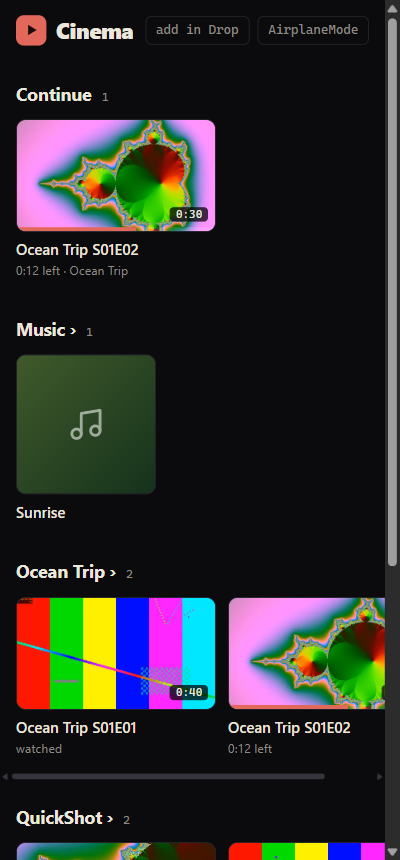
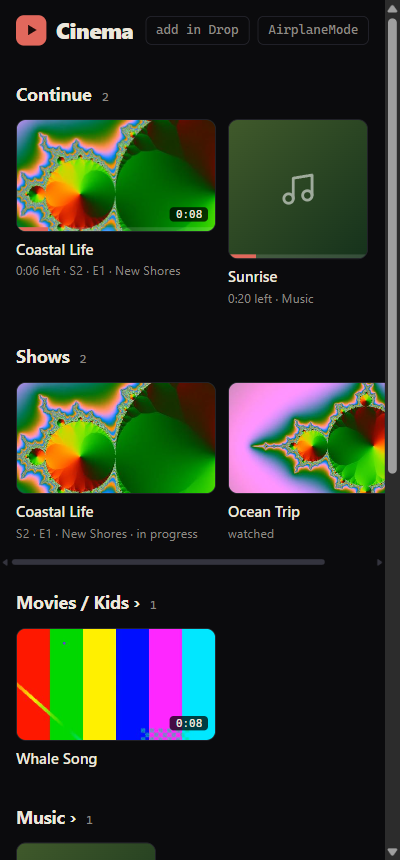
TV series: shows, seasons, and watching straight through
A folder of episodes (S01E02, 1x02, Episode 2, E02) or of season folders ("Season 1",
"S2", "Specials") is a show: one card on the home page, a show page with season tabs
and episodes labelled from file names, one Play/Continue button that knows where this
device is, Up next across seasons, and one Continue card per show. Ordinary folders
(Movies/Kids) stay shelves. Node test runs the page's own series code in CI.

diff --git a/static/index.html b/static/index.html
@@ -117,6 +117,24 @@
   .tracks .n { font: .78rem var(--mono); color: var(--dim); width: 22px; text-align: right; flex: none; }
   .tracks .nm { flex: 1; min-width: 0; white-space: nowrap; overflow: hidden; text-overflow: ellipsis; }
   .tracks .d { font: .75rem var(--mono); color: var(--dim); }
+  /* shows */
+  .showhead { display: grid; grid-template-columns: minmax(0, 340px) 1fr; gap: 22px; align-items: end; padding: 18px 20px 4px; }
+  .showhead .poster { aspect-ratio: 16 / 9; }
+  .showhead h1 { margin: 0 0 4px; font-size: 1.7rem; letter-spacing: -.01em; line-height: 1.15; }
+  .showhead .sub { color: var(--dim); font-size: .9rem; margin-bottom: 14px; }
+  @media (max-width: 600px) { .showhead { grid-template-columns: 1fr; padding: 14px 16px 4px; gap: 14px; } .showhead h1 { font-size: 1.4rem; } }
+  .tabs { display: flex; gap: 6px; padding: 18px 20px 6px; overflow-x: auto; scrollbar-width: none; }
+  .tabs a { flex: none; padding: 7px 14px; border-radius: 99px; border: 1px solid var(--line); text-decoration: none; font-size: .88rem; color: var(--dim); }
+  .tabs a.on { background: var(--ink); color: var(--bg); border-color: var(--ink); font-weight: 600; }
+  .eps { padding: 6px 20px 30px; display: grid; gap: 4px; }
+  .ep { display: grid; grid-template-columns: 168px 1fr; gap: 14px; align-items: center; padding: 8px; border-radius: 10px; text-decoration: none; }
+  .ep:hover, .ep:focus-visible { background: var(--panel); outline: none; }
+  .ep.now { background: var(--panel); box-shadow: inset 3px 0 0 var(--accent); }
+  .ep .poster { aspect-ratio: 16 / 9; border-radius: 8px; }
+  .ep b { display: block; font-size: .95rem; line-height: 1.3; }
+  .ep small { color: var(--dim); font-size: .8rem; }
+  .ep.cant { opacity: .5; }
+  @media (max-width: 600px) { .ep { grid-template-columns: 128px 1fr; gap: 12px; } .tabs, .eps { padding-left: 16px; padding-right: 16px; } }
   .note { text-align: center; color: var(--dim); font-size: .85rem; padding: 0 20px; }
   @media (max-width: 600px) { .card { width: 200px; } .card.sq { width: 140px; } .grid { grid-template-columns: repeat(auto-fill, minmax(150px, 1fr)); } .top { padding: 14px 16px 4px; } .shelf h2 { margin: 0 16px 8px; } .row, .grid, .chips { padding-left: 16px; padding-right: 16px; } .row { scroll-padding-inline: 16px; } .cta { padding: 0 16px 8px; } .crumbs { padding: 8px 16px 0; } }
 </style>
@@ -177,6 +195,86 @@ function folderPath(fid) { const out = []; let f = folderById.get(fid); while (f
 const folderLabel = fid => folderPath(fid).map(f => f.name).join(" / ");
 function countBelow(fid) { let n = inFolder(fid).length; for (const s of subfolders(fid)) n += countBelow(s.id); return n; }
 
+// ---- TV series: a folder of episodes, or of season folders, is a show ----
+// Episode numbers come from file names (S01E02, 1x02, Episode 2); seasons from folder names
+// ("Season 1", "S2", "Series 3", "Specials" = 0) or, failing that, from the file name.
+const EP_RES = [
+  [/\bS(\d{1,2})[ ._-]*E(\d{1,3})\b/i, m => [+m[1], +m[2]]],
+  [/\b(\d{1,2})x(\d{2,3})\b/i, m => [+m[1], +m[2]]],
+  [/\b(?:episode|ep)[ ._-]*(\d{1,3})\b/i, m => [null, +m[1]]],
+  [/\bE(\d{1,3})\b/, m => [null, +m[1]]],
+];
+function parseEp(name) {
+  const base = name.replace(/\.[a-z0-9]{2,5}$/i, "").replace(/[._]+/g, " ");
+  for (const [re, f] of EP_RES) {
+    const m = re.exec(base);
+    if (m) {
+      const [season, ep] = f(m);
+      const title = base.slice(m.index + m[0].length).replace(/^[\s\-–—:]+/, "").replace(/\s{2,}/g, " ").trim();
+      return { season, ep, title: title || null };
+    }
+  }
+  return null;
+}
+function seasonOf(name) {
+  const n = name.trim();
+  if (/^(specials?|extras?)$/i.test(n)) return 0;
+  const m = /^(?:season|series|staffel|saison|temporada|s)?[ ._-]*(\d{1,2})$/i.exec(n) || /\b(?:season|series)[ ._-]*(\d{1,2})\b/i.exec(n);
+  return m ? +m[1] : null;
+}
+let shows = new Map();      // show folder id -> {id, name, episodes (in watch order), seasons}
+function isShow(f) {
+  const epFiles = inFolder(f.id).filter(m => parseEp(m.name)).length;
+  const seasonKids = subfolders(f.id).filter(k => countBelow(k.id) && (seasonOf(k.name) !== null || inFolder(k.id).some(m => parseEp(m.name))));
+  return seasonKids.length > 0 || epFiles >= 2;
+}
+function buildShows() {
+  shows = new Map();
+  lib.media.forEach(m => { delete m.show; });
+  const walk = fid => {
+    for (const f of subfolders(fid)) {
+      if (isShow(f)) addShow(f); else walk(f.id);       // a show's own subfolders are its seasons
+    }
+  };
+  walk(null);
+}
+function addShow(f) {
+  const eps = [];
+  const collect = (fid, season, idx) => {
+    for (const m of inFolder(fid)) {
+      const e = parseEp(m.name) || {};
+      Object.assign(m, { show: f.id, season: season ?? e.season ?? idx ?? 1, ep: e.ep ?? null, epTitle: e.title ?? null });
+      eps.push(m);
+    }
+    subfolders(fid).forEach((k, i) => collect(k.id, season ?? seasonOf(k.name) ?? (fid === f.id ? null : season), season ?? seasonOf(k.name) ?? i + 1));
+  };
+  collect(f.id, null, null);
+  // seasons in order, specials (0) last; episodes by number, then by name
+  const sk = x => x === 0 ? 999 : x;
+  eps.sort((a, b) => sk(a.season) - sk(b.season) || (a.ep ?? 1e6) - (b.ep ?? 1e6) || nat(a, b));
+  const seasons = [...new Set(eps.map(m => m.season))];
+  shows.set(f.id, { id: f.id, name: f.name, episodes: eps, seasons });
+}
+const seasonName = n => n === 0 ? "Specials" : `Season ${n}`;
+function epShort(m) {   // "E2 · Pilot"
+  if (m.ep == null) return m.epTitle || tidy(m.name);
+  return `E${m.ep}${m.epTitle ? " · " + m.epTitle : ""}`;
+}
+function epLong(m) {    // "S1 · E2 · Pilot"
+  const sh = shows.get(m.show);
+  return (sh && sh.seasons.length > 1 || m.season > 1 ? (m.season === 0 ? "Special · " : `S${m.season} · `) : "") + epShort(m);
+}
+const titleOf = m => m.show ? epLong(m) : tidy(m.name);
+// where this device is in a show: the episode to continue, the next one, or the first
+function showState(sh) {
+  const seen = sh.episodes.map(m => [m, pos(m.id)]).filter(([, p]) => p);
+  if (!seen.length) return { m: sh.episodes.find(playable) || sh.episodes[0], mode: "start", at: 0 };
+  const [last, p] = seen.sort((a, b) => b[1].at - a[1].at)[0];
+  if (!finished(p)) return { m: last, mode: "continue", at: p.at };
+  const next = sh.episodes.slice(sh.episodes.indexOf(last) + 1).find(e => !finished(pos(e.id)));
+  return next ? { m: next, mode: "next", at: p.at } : { m: last, mode: "done", at: p.at };
+}
+
 // ---- library ----
 async function load() {
   try {
@@ -189,27 +287,46 @@ async function load() {
   }
   byId = new Map(lib.media.map(m => [m.id, m]));
   folderById = new Map(lib.folders.map(f => [f.id, f]));
+  buildShows();
   $("#dropLink").href = lib.drop_path;
   route();
   posterQueue();
 }
 
+function posterBox(m, art, extra = "") {
+  const sq = m.kind === "audio";
+  return `<div class="poster" style="background:${gradient(art)}">
+      <div class="ph">${sq ? NOTE : m.poster ? "" : FILM}</div>
+      ${m.poster ? `<img src="api/posters/${m.id}" alt="" loading="lazy" onload="this.classList.add('on')">` : ""}${extra}
+    </div>`;
+}
+const artFor = m => m.show ? shows.get(m.show).name : m.parent ? folderLabel(m.parent) : m.name;
 function card(m, opts = {}) {
   const p = pos(m.id), sq = m.kind === "audio", can = playable(m);
   const dur = (p && p.d) || mem.get("d." + m.id);
   // in a folder's shelf the folder name is already the heading; elsewhere (Continue) say where it's from
-  const where = opts.where ? folderLabel(m.parent) : "";
-  const meta = !can ? "won't play on this device" : [started(p) ? `${clock(p.d - p.t)} left` : finished(p) ? "watched" : "", where].filter(Boolean).join(" · ");
+  const where = opts.where ? (m.show ? epLong(m) : folderLabel(m.parent)) : "";
+  const meta = !can ? "won't play on this device" : [opts.status || (started(p) ? `${clock(p.d - p.t)} left` : finished(p) ? "watched" : ""), where].filter(Boolean).join(" · ");
   return `<a class="card${sq ? " sq" : ""}${can ? "" : " cant"}" href="#play=${m.id}" title="${esc(m.name)}">
-    <div class="poster" style="background:${gradient(m.parent ? folderLabel(m.parent) : m.name)}">
+    <div class="poster" style="background:${gradient(artFor(m))}">
       <div class="ph">${sq ? NOTE : m.poster ? "" : FILM}</div>
       ${m.poster ? `<img src="api/posters/${m.id}" alt="" loading="lazy" onload="this.classList.add('on')">` : ""}
       ${dur && !sq ? `<span class="dur">${clock(dur)}</span>` : ""}
       ${started(p) ? `<div class="prog"><i style="width:${(100 * p.t / p.d).toFixed(1)}%"></i></div>` : ""}
       <div class="hover"><span>${PLAY}</span></div>
     </div>
-    <div class="t">${esc(tidy(m.name))}</div>
+    <div class="t">${esc(opts.title || titleOf(m))}</div>
     ${meta ? `<div class="m">${esc(meta)}</div>` : ""}
+  </a>`;
+}
+function showCard(sh) {
+  const st = showState(sh), m = st.m;
+  const face = m.poster ? m : sh.episodes.find(e => e.poster) || m;
+  const meta = st.mode === "continue" ? `${epLong(m)} · in progress` : st.mode === "next" ? `Next: ${epLong(m)}` : st.mode === "done" ? "watched"
+    : `${sh.seasons.length > 1 ? sh.seasons.filter(x => x).length + " seasons · " : ""}${sh.episodes.length} episode${sh.episodes.length === 1 ? "" : "s"}`;
+  return `<a class="card" href="#show=${sh.id}" title="${esc(sh.name)}">
+    ${posterBox(face, sh.name, `<div class="hover"><span>${PLAY}</span></div>`)}
+    <div class="t">${esc(sh.name)}</div><div class="m">${esc(meta)}</div>
   </a>`;
 }
 
@@ -222,16 +339,25 @@ function renderHome() {
       <p><a class="btn primary" href="${esc(lib.drop_path)}">Open Drop</a></p></div>`;
     return;
   }
-  const cont = lib.media.filter(m => started(pos(m.id))).sort((a, b) => pos(b.id).at - pos(a.id).at).slice(0, 12);
+  // Continue: films/songs in progress, and one card per show (its episode in progress, or the next)
+  const cont = [
+    ...lib.media.filter(m => !m.show && started(pos(m.id))).map(m => ({ at: pos(m.id).at, html: card(m, { where: true }) })),
+    ...[...shows.values()].map(sh => [sh, showState(sh)]).filter(([, st]) => st.mode === "continue" || st.mode === "next")
+      .map(([sh, st]) => ({ at: st.at, html: card(st.m, { title: sh.name, where: true, status: st.mode === "next" ? "Next up" : "" }) })),
+  ].sort((a, b) => b.at - a.at).slice(0, 12);
   let html = "";
-  if (cont.length) html += shelf("Continue", cont, null, "row", { where: true });
-  // one shelf per folder that holds media directly, in folder order; loose files last
+  if (cont.length) html += `<section class="shelf"><h2>Continue<small>${cont.length}</small></h2><div class="row">${cont.map(c => c.html).join("")}</div></section>`;
+  if (shows.size) {
+    const list = [...shows.values()].sort(nat);
+    html += `<section class="shelf"><h2>Shows<small>${list.length}</small></h2><div class="row">${list.map(showCard).join("")}</div></section>`;
+  }
+  // one shelf per (non-show) folder that holds media directly, in folder order; loose files last
   const order = [];
-  const walk = fid => { for (const f of subfolders(fid)) { if (inFolder(f.id).length) order.push(f.id); walk(f.id); } };
+  const walk = fid => { for (const f of subfolders(fid)) { if (shows.has(f.id)) continue; if (inFolder(f.id).length) order.push(f.id); walk(f.id); } };
   walk(null);
   for (const fid of order) html += shelf(folderLabel(fid), inFolder(fid), fid, "row");
   const loose = inFolder(null);
-  if (loose.length) html += shelf(order.length ? "Everything else" : "On Drop", loose, null, "row");
+  if (loose.length) html += shelf(order.length || shows.size ? "Everything else" : "On Drop", loose, null, "row");
   $("#lib").innerHTML = html;
 }
 function shelf(title, list, fid, layout, opts = {}) {
@@ -241,12 +367,13 @@ function shelf(title, list, fid, layout, opts = {}) {
 }
 function renderFolder(fid) {
   const f = folderById.get(fid); if (!f) return go("");
+  if (shows.has(fid)) return go("show=" + fid);
   const parts = folderPath(fid);
   $("#crumbs").hidden = false;
   $("#crumbs").innerHTML = `<a href="#">Library</a>` + parts.map((p, i) => ` / ` + (i === parts.length - 1 ? `<b>${esc(p.name)}</b>` : `<a href="#folder=${p.id}">${esc(p.name)}</a>`)).join("");
   const subs = subfolders(fid).filter(s => countBelow(s.id));
   const list = inFolder(fid);
-  let html = subs.length ? `<div class="chips" style="margin-top:16px">${subs.map(s => `<a class="chip" href="#folder=${s.id}">${esc(s.name)} <small>${countBelow(s.id)}</small></a>`).join("")}</div>` : "";
+  let html = subs.length ? `<div class="chips" style="margin-top:16px">${subs.map(s => `<a class="chip" href="#${shows.has(s.id) ? "show" : "folder"}=${s.id}">${esc(s.name)} <small>${countBelow(s.id)}</small></a>`).join("")}</div>` : "";
   if (list.length) {
     const first = list.find(m => !finished(pos(m.id)) && playable(m)) || list[0];
     html += `<section class="shelf"><h2>${esc(f.name)}<small>${list.length}</small></h2>
@@ -257,14 +384,41 @@ function renderFolder(fid) {
   $("#lib").innerHTML = html;
 }
 
-// ---- routing: #play=<id> (Drop links here), #folder=<id>, or the library ----
+function renderShow(id, wantSeason) {
+  const sh = shows.get(id); if (!sh) return go("");
+  const st = showState(sh);
+  const season = sh.seasons.includes(wantSeason) ? wantSeason : st.m.season;
+  const parts = folderPath(id);
+  $("#crumbs").hidden = false;
+  $("#crumbs").innerHTML = `<a href="#">Library</a>` + parts.slice(0, -1).map(p => ` / <a href="#folder=${p.id}">${esc(p.name)}</a>`).join("") + ` / <b>${esc(sh.name)}</b>`;
+  const face = st.m.poster ? st.m : sh.episodes.find(e => e.poster) || st.m;
+  const label = st.mode === "continue" ? `Continue ${epLong(st.m)}` : st.mode === "next" ? `Play ${epLong(st.m)}` : st.mode === "done" ? "Watch again" : `Play ${epLong(st.m)}`;
+  const target = st.mode === "done" ? sh.episodes[0] : st.m;
+  const n = sh.episodes.length, ns = sh.seasons.filter(x => x).length;
+  let html = `<div class="showhead">${posterBox(face, sh.name)}
+    <div><h1>${esc(sh.name)}</h1><div class="sub">${ns > 1 ? ns + " seasons · " : ""}${n} episode${n === 1 ? "" : "s"}</div>
+    <a class="btn primary" href="#play=${target.id}">${PLAY} ${esc(label)}</a></div></div>`;
+  if (sh.seasons.length > 1) html += `<nav class="tabs">${sh.seasons.map(x => `<a href="#show=${id}&s=${x}" class="${x === season ? "on" : ""}">${seasonName(x)}</a>`).join("")}</nav>`;
+  const list = sh.episodes.filter(m => m.season === season);
+  html += `<div class="eps">${list.map(m => {
+    const p = pos(m.id), dur = (p && p.d) || mem.get("d." + m.id), can = playable(m);
+    const status = !can ? "won't play on this device" : started(p) ? `${clock(p.d - p.t)} left` : finished(p) ? "watched" : dur ? clock(dur) : "";
+    const bar = started(p) ? `<div class="prog"><i style="width:${(100 * p.t / p.d).toFixed(1)}%"></i></div>` : "";
+    return `<a class="ep${m === st.m && st.mode !== "done" ? " now" : ""}${can ? "" : " cant"}" href="#play=${m.id}" title="${esc(m.name)}">
+      ${posterBox(m, sh.name, bar)}<div><b>${esc(epShort(m))}</b><small>${esc(status)}</small></div></a>`;
+  }).join("")}</div>`;
+  $("#lib").innerHTML = html;
+}
+
+// ---- routing: #play=<id> (Drop links here), #folder=<id>, #show=<id>[&s=<season>], or the library ----
 function go(hash) { if (location.hash.slice(1) !== hash) location.hash = hash; else route(); }
 function route() {
   if (!lib) return;
-  const h = location.hash.slice(1), m = /^(play|folder)=([0-9a-f]{16})$/.exec(h);
+  const h = location.hash.slice(1), m = /^(play|folder|show)=([0-9a-f]{16})(?:&s=(\d{1,3}))?$/.exec(h);
   if (m && m[1] === "play") return byId.has(m[2]) ? openPlayer(byId.get(m[2])) : (closePlayer(), renderHome());
   closePlayer();
-  m ? renderFolder(m[2]) : renderHome();
+  if (m && m[1] === "show") renderShow(m[2], m[3] != null ? +m[3] : null);
+  else m ? renderFolder(m[2]) : renderHome();
   window.scrollTo(0, scrollMem[h] || 0);
 }
 const scrollMem = {};
@@ -276,12 +430,14 @@ let media = null, current = null, saveTimer = null, nextTimer = null, idleTimer 
 function openPlayer(m) {
   closePlayer(true);
   current = m;
-  document.title = tidy(m.name) + " · Cinema";
+  const sh = m.show && shows.get(m.show);
+  document.title = (sh ? `${sh.name} · ${epLong(m)}` : tidy(m.name)) + " · Cinema";
   $("#libView").hidden = true;
   $("#player").hidden = false;
-  $("#pTitle").textContent = tidy(m.name);
-  $("#pSub").textContent = folderLabel(m.parent) || "Drop";
-  const list = inFolder(m.parent), idx = list.indexOf(m);
+  $("#pTitle").textContent = sh ? sh.name : tidy(m.name);
+  $("#pSub").textContent = sh ? epLong(m) : folderLabel(m.parent) || "Drop";
+  // a show plays straight on into the next season; otherwise the folder is the playlist
+  const list = sh ? sh.episodes : inFolder(m.parent), idx = list.indexOf(m);
   const stage = $("#stage");
   const noSave = m.download ? "" : ' controlslist="nodownload" oncontextmenu="return false"';
   if (m.kind === "video") {
@@ -290,9 +446,9 @@ function openPlayer(m) {
   } else {
     stage.className = "audio";
     stage.innerHTML = `<div class="art" style="background:${gradient(m.parent ? folderLabel(m.parent) : m.name)}">${NOTE}</div>
-      <h1>${esc(tidy(m.name))}</h1><div class="sub">${esc(folderLabel(m.parent) || "Drop")}${list.length > 1 ? ` · ${idx + 1} of ${list.length}` : ""}</div>
+      <h1>${esc(titleOf(m))}</h1><div class="sub">${esc(sh ? sh.name : folderLabel(m.parent) || "Drop")}${list.length > 1 ? ` · ${idx + 1} of ${list.length}` : ""}</div>
       <audio id="media" controls autoplay preload="auto"${noSave}></audio>
-      ${list.length > 1 ? `<div class="tracks">${list.map((t, i) => `<button type="button" data-track="${t.id}" class="${t === m ? "now" : ""}"><span class="n">${t === m ? "▶" : i + 1}</span><span class="nm">${esc(tidy(t.name))}</span><span class="d">${mem.get("d." + t.id) ? clock(mem.get("d." + t.id)) : ""}</span></button>`).join("")}</div>` : ""}`;
+      ${list.length > 1 ? `<div class="tracks">${list.map((t, i) => `<button type="button" data-track="${t.id}" class="${t === m ? "now" : ""}"><span class="n">${t === m ? "▶" : i + 1}</span><span class="nm">${esc(titleOf(t))}</span><span class="d">${mem.get("d." + t.id) ? clock(mem.get("d." + t.id)) : ""}</span></button>`).join("")}</div>` : ""}`;
     stage.querySelectorAll("[data-track]").forEach(b => b.onclick = () => go("play=" + b.dataset.track));
   }
   if (!playable(m)) stage.insertAdjacentHTML("beforeend", `<p class="note">This device's browser may not play ${esc(m.type)}. Try another device, or a file in MP4 (H.264) or MP3.</p>`);
@@ -313,7 +469,7 @@ function openPlayer(m) {
   saveTimer = setInterval(save, 5000);
   media.play?.().catch(() => {});   // autoplay can be refused (iOS with sound): the controls are there
   if ("mediaSession" in navigator) {
-    navigator.mediaSession.metadata = new MediaMetadata({ title: tidy(m.name), artist: folderLabel(m.parent) || "AirplaneMode", album: "Cinema",
+    navigator.mediaSession.metadata = new MediaMetadata({ title: titleOf(m), artist: sh ? sh.name : folderLabel(m.parent) || "AirplaneMode", album: "Cinema",
       artwork: m.poster ? [{ src: "api/posters/" + m.id, sizes: "480x270", type: "image/jpeg" }] : [] });
     navigator.mediaSession.setActionHandler("nexttrack", list[idx + 1] ? () => go("play=" + list[idx + 1].id) : null);
     navigator.mediaSession.setActionHandler("previoustrack", list[idx - 1] ? () => go("play=" + list[idx - 1].id) : null);
@@ -329,6 +485,7 @@ function closePlayer(keepView) {
   if (!keepView) { $("#player").hidden = true; $("#libView").hidden = false; document.title = "Cinema · AirplaneMode"; }
 }
 $("#back").onclick = () => {
+  if (current && current.show) return go(`show=${current.show}&s=${current.season}`);
   const fid = current && current.parent;
   go(fid ? "folder=" + fid : "");
 };
@@ -349,7 +506,7 @@ function upNext(n) {
   let left = 8;
   const box = document.createElement("div"); box.className = "next";
   box.innerHTML = `<div class="np" style="background-image:${n.poster ? `url(api/posters/${n.id})` : gradient(n.name)}"><div class="ring">${left}</div></div>
-    <div class="nb"><div><small>Up next</small><b>${esc(tidy(n.name))}</b></div><button class="x" type="button">Cancel</button><button class="play" type="button">Play</button></div>`;
+    <div class="nb"><div><small>Up next${n.show && current && n.season !== current.season ? " · " + seasonName(n.season) : ""}</small><b>${esc(titleOf(n))}</b></div><button class="x" type="button">Cancel</button><button class="play" type="button">Play</button></div>`;
   box.querySelector(".play").onclick = () => go("play=" + n.id);
   box.querySelector(".x").onclick = hideNext;
   $("#player").append(box);

diff --git a/README.md b/README.md
@@ -7,8 +7,8 @@ music loaded onto [Drop](https://github.com/jessewolcott/airplanemode-drop), on 
 tablet and laptop on the hotspot, with no internet.
 
 <p align="center">
-  <img src="docs/screenshots/library.png" width="230" alt="The library: Continue, and a shelf per Drop folder">
-  <img src="docs/screenshots/folder.png" width="230" alt="A folder: continue where this device left off">
+  <img src="docs/screenshots/library.png" width="230" alt="The library: Continue (one card per show), Shows, and a shelf per Drop folder">
+  <img src="docs/screenshots/show.png" width="230" alt="A show: season tabs, episodes, and Continue S2 · E1">
 </p>
 <p align="center">
   <img src="docs/screenshots/player.png" width="700" alt="The player at the end of an episode, with up next">
@@ -18,6 +18,9 @@ tablet and laptop on the hotspot, with no internet.
 
 - **A library from Drop's folders.** Each folder with videos or music becomes a shelf ("Ocean
   Trip", "Kids", "Music"); files sort naturally, so episodes play in order.
+- **TV series.** A folder of episodes, or of season folders, becomes a show: one card on the
+  home page, a page with season tabs, and episodes labelled from their file names. It plays
+  straight on into the next season, and *Continue* shows one card per show (see below).
 - **Posters by themselves.** The first browser to show a video grabs a frame from it and gives
   it to the box, so everyone else sees a poster too.
 - **Picks up where you left off, per device.** Every tablet on the plane keeps its own place,
@@ -32,6 +35,31 @@ tablet and laptop on the hotspot, with no internet.
 Cinema never touches the media itself: the browser streams straight from Drop (with seeking),
 so Cinema needs very little memory (64 MB). Its only data is the posters.
 
+## TV series
+
+Load a show into Drop either way:
+
+```
+Coastal Life/                         Ocean Trip/
+  Season 1/                             Ocean.Trip.S01E01.mp4
+    Coastal.Life.S01E01.The.Harbour.mp4 Ocean.Trip.S01E02.mp4
+    Coastal.Life.S01E02.Low.Tide.mp4
+  Season 2/
+    Episode 1 - New Shores.mp4
+  Specials/
+    Behind the Scenes.mp4
+```
+
+- **What counts as a show:** a folder with season subfolders ("Season 1", "S2", "Series 3",
+  "Specials", or subfolders whose files are named like episodes), or a folder with at least two
+  files named like episodes. "Movies/Kids" stays an ordinary shelf.
+- **Episode names** understood: `S01E02`, `s1e2`, `1x02`, `Episode 2`, `Ep 2`, `E02`. Whatever
+  follows becomes the episode title ("E2 · Low Tide"). The season comes from the folder name,
+  then the file name, then the folder's order. Specials go last.
+- **Watching:** the show's page has one button, *Play S1 · E1*, *Continue S2 · E4*, or the next
+  episode once you finish one. *Up next* carries on into the next season, and the lock-screen
+  next/previous buttons follow the whole show.
+
 **What plays** depends on the device's browser. MP4 (H.264 + AAC), WebM and MP3/AAC play
 everywhere; MKV, HEVC or AC-3 audio may not. Files a device can't play are dimmed and say so.
 
@@ -44,6 +72,7 @@ everywhere; MKV, HEVC or AC-3 audio may not. Files a device can't play are dimme
 ```
 docker compose up -d --build        # Cinema http://localhost:8768, Drop http://localhost:8766
 python tests/test_cinema.py         # API tests (CI runs these before building)
+node tests/test_series.mjs          # TV-series logic, run straight from the page's code
 ```
 
 Standalone, Drop is on another port, so the browser treats it as another site and posters

diff --git a/CLAUDE.md b/CLAUDE.md
@@ -12,6 +12,7 @@ is Drop's (`../airplanemode-drop`), so changes to Drop's item format affect this
 ```powershell
 docker compose up -d --build         # standalone dev: Cinema :8768 + Drop :8766 (no posters: cross-origin)
 python tests/test_cinema.py          # API tests (CI runs these before building)
+node tests/test_series.mjs           # series logic (episode parsing, shows, watch order), from the page's code
 ```
 
 The real test bed is the platform dev stack (`../airplanemode`, compose.dev.yaml builds this
@@ -27,6 +28,11 @@ repo): same origin, so posters work and Drop's "Play in Cinema" appears.
 - Honour Drop's `download: false`: `controlslist="nodownload"`, no context menu. It's a
   courtesy, not protection; streaming always works.
 - Resume positions are per device (localStorage `cinema.p.<id>`). No accounts.
+- **TV series** live in the page (`parseEp`, `seasonOf`, `isShow`, `buildShows`, `showState`),
+  between `const nat =` and `// ---- library ----`: `tests/test_series.mjs` runs exactly that
+  slice under Node, so keep it free of DOM work at load time. A show's subfolders are seasons,
+  never shelves; `#show=<id>[&s=<n>]` is its page; the player's playlist is the show's whole
+  episode list. Add a case to the test for any new file-name pattern.
 
 ## Releasing
 
